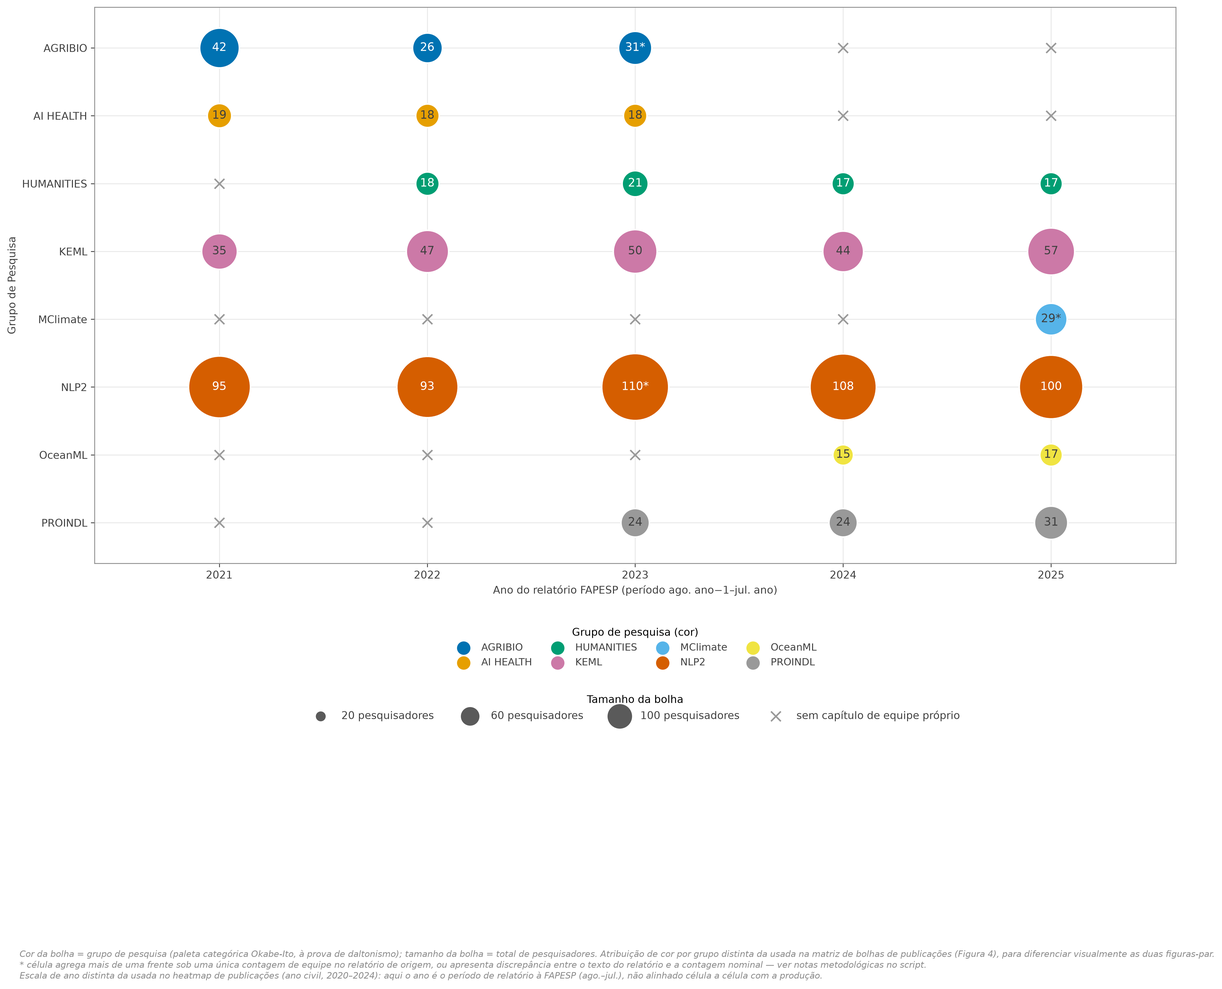
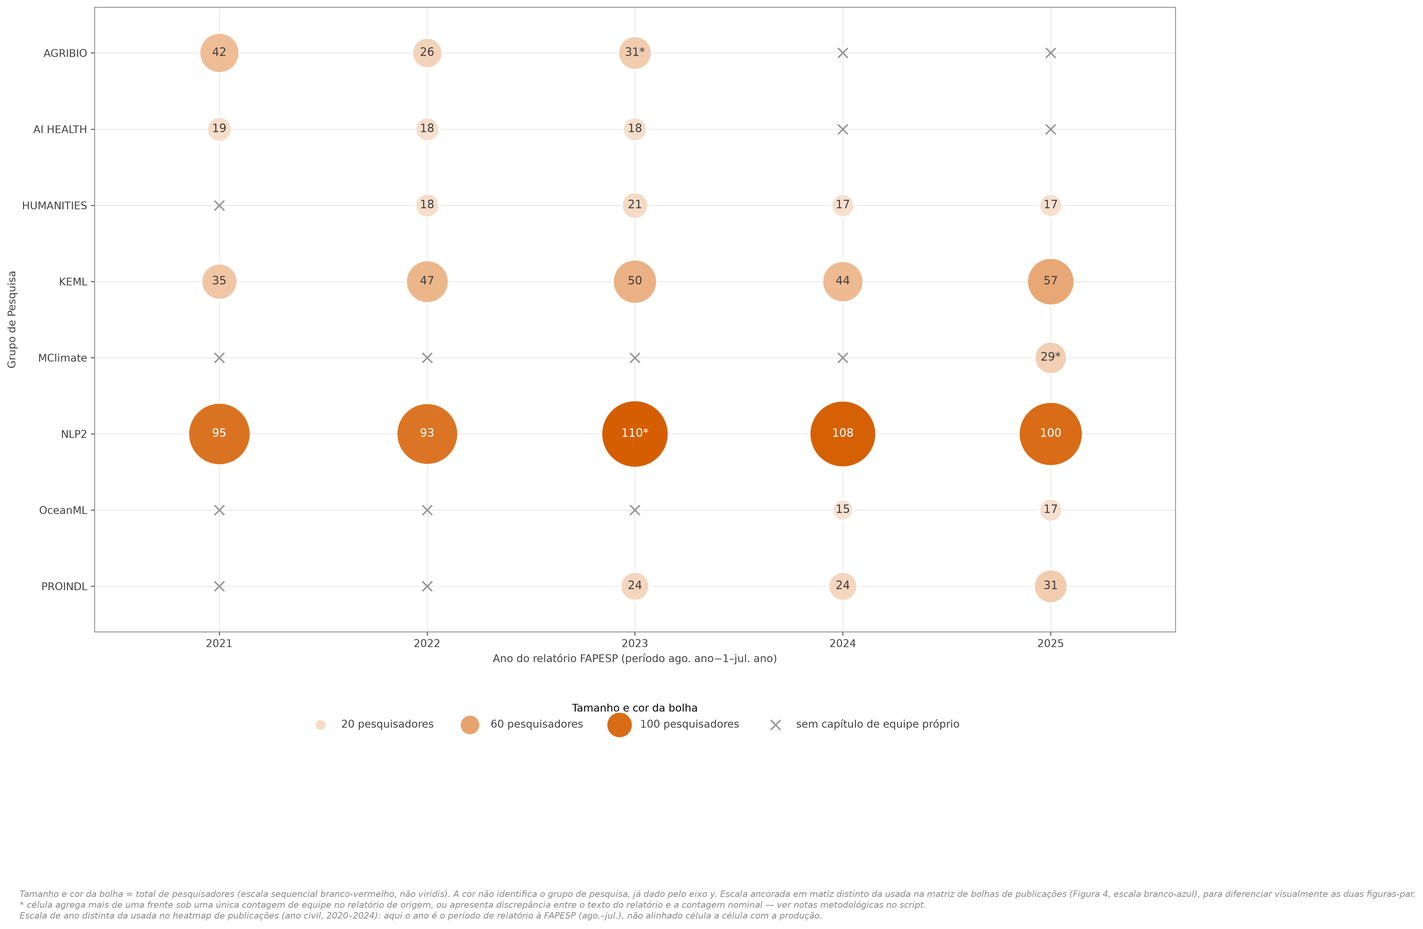
Volta a cor da bolha para escala sequencial por valor, não por grupo
A cor da bolha passa a representar magnitude (número de publicações /
total de pesquisadores) numa escala monocromática, e não mais a
identidade do grupo (que já está no eixo y). Cada figura usa uma escala
ancorada num matiz diferente do núcleo Okabe-Ito (azul para publicações,
vermelho para composição de equipe), para manter as duas matrizes
diferenciáveis sem recorrer a viridis.

As bolhas de referência da legenda de tamanho agora usam a cor exata da
escala no valor correspondente, em vez de cinza neutro. Um piso de
saturação (18%) evita que os valores mais baixos fiquem brancos e
desapareçam contra o fundo da figura.

diff --git a/equipe_composicao.py b/equipe_composicao.py
@@ -3,12 +3,15 @@
 equipe_composicao.py — Composição de equipe por grupo do C4AI (2021–2025)
 ==========================================================================
 Figura-par da matriz de bolhas de publicações (4_heatmap_grupo_ano_bolhas.png /
-bolhas_publicacoes.py): mesma grade grupo × ano, com o tamanho da bolha indicando
-o nº de pesquisadores declarado no relatório anual à FAPESP (em vez do nº de
-publicações). A cor da bolha é categórica por grupo (Okabe-Ito, ordem alfabética),
-deliberadamente diferente da atribuição usada na figura-par de publicações (ordem
-por produtividade), para que as duas matrizes de bolhas fiquem diferenciáveis
-entre si mesmo compartilhando a mesma paleta-mestra da tese.
+bolhas_publicacoes.py): mesma grade grupo × ano, com o tamanho E a cor da bolha
+indicando o nº de pesquisadores declarado no relatório anual à FAPESP (em vez do
+nº de publicações), numa escala sequencial monocromática (branco ao vermelho
+Okabe-Ito #D55E00), não viridis. A cor não identifica o grupo de pesquisa, esse
+já dado pelo eixo y; a escala está ancorada num matiz diferente do usado na
+figura-par de publicações (azul Okabe-Ito), para que as duas matrizes de bolhas
+fiquem diferenciáveis entre si mesmo compartilhando a mesma paleta-mestra da
+tese. O gráfico de streamgraph (Figura 13, alternativa aos mesmos dados) segue
+usando a paleta categórica Okabe-Ito por grupo, sem mudança.
 
 Fonte dos dados: seções "Human resources" (relatórios 2021–2022) e "Team"
 (relatórios 2023–2025) de cada capítulo dos relatórios científicos do C4AI à FAPESP,
@@ -35,7 +38,7 @@ from pathlib import Path
 import matplotlib.pyplot as plt
 import numpy as np
 import pandas as pd
-from matplotlib.colors import to_rgb
+from matplotlib.colors import LinearSegmentedColormap, to_rgb
 from scipy.interpolate import PchipInterpolator
 
 # ──────────────────────────────────────────────────────────────────────────────
@@ -114,18 +117,35 @@ CORES_OKABE_ITO = {
 # PLOT
 # ──────────────────────────────────────────────────────────────────────────────
 
-# ── Identidade visual da tese (estilo_rede.py: Okabe-Ito categórico, "bolinha"
-# com borda branca, DejaVu Sans, tinta cinza #404040 sem negrito, nota em
-# itálico #8a8a8a, sem título embutido na imagem — a legenda do LaTeX titula).
-# A cor da bolha codifica o grupo (CORES_OKABE_ITO acima), não mais uma escala
-# sequencial (viridis) redundante com o tamanho. ──────────────────────────────
+# ── Identidade visual da tese (estilo_rede.py: Okabe-Ito categórico p/ figuras
+# de rede/streamgraph, "bolinha" com borda branca, DejaVu Sans, tinta cinza
+# #404040 sem negrito, nota em itálico #8a8a8a, sem título embutido na imagem
+# — a legenda do LaTeX titula). Na matriz de bolhas (Figura 12), a cor segue
+# uma escala sequencial (branco-vermelho, ancorada no vermelho Okabe-Ito), não
+# mais categórica por grupo nem viridis. ──────────────────────────────────────
 
 COR_TEXTO = "#404040"
 COR_NOTA = "#8a8a8a"
 COR_AUSENTE = "#999999"  # cinza da paleta categórica Okabe-Ito (slot neutro)
-COR_LEGENDA_TAMANHO = "#5a5a5a"  # cinza neutro p/ legenda de tamanho (cor não é grupo aqui)
+
+# Escala sequencial monocromática (branco -> vermelho Okabe-Ito #D55E00), não
+# viridis. Ancorada em cor distinta da usada em bolhas_publicacoes.py (azul
+# Okabe-Ito), para diferenciar as duas matrizes de bolhas entre si.
+COR_ANCORA_EQUIPE = "#D55E00"
+CMAP_SEQUENCIAL_EQUIPE = LinearSegmentedColormap.from_list(
+    "vermelho_okabe_ito", ["#ffffff", COR_ANCORA_EQUIPE],
+)
 
 plt.rcParams["font.family"] = "DejaVu Sans"
+
+
+COR_FRAC_MIN = 0.18  # piso de saturação: evita bolhas quase brancas (invisíveis sobre o fundo)
+
+
+def cor_escala(frac: float, cmap) -> tuple:
+    """Mapeia frac (0-1) na escala, com piso de saturação para o valor mínimo
+    não desaparecer contra o fundo branco da figura."""
+    return cmap(COR_FRAC_MIN + (1 - COR_FRAC_MIN) * frac)
 
 
 def cor_texto_sobre(cor) -> str:
@@ -158,7 +178,6 @@ def plot_composicao_bolhas(totais: pd.DataFrame, outdir: Path):
     tamanho_min, tamanho_max = 400, 4200
 
     for i, grupo in enumerate(grupos):
-        cor = CORES_OKABE_ITO[grupo]
         for j, ano in enumerate(anos):
             total = totais.loc[grupo, ano]
 
@@ -171,6 +190,7 @@ def plot_composicao_bolhas(totais: pd.DataFrame, outdir: Path):
 
             frac = (total - vmin) / (vmax - vmin)
             tamanho = tamanho_min + frac * (tamanho_max - tamanho_min)
+            cor = cor_escala(frac, CMAP_SEQUENCIAL_EQUIPE)
 
             ax.scatter(
                 j, i, s=tamanho, color=cor, edgecolors="white", linewidths=1.5,
@@ -206,24 +226,11 @@ def plot_composicao_bolhas(totais: pd.DataFrame, outdir: Path):
     ax.grid(True, alpha=0.2, linewidth=0.8, color=COR_NOTA)
     ax.set_axisbelow(True)
 
-    # legenda de cor (uma bolha por grupo, na cor efetivamente usada na matriz)
-    handles_grupo = [
-        ax.scatter([], [], s=200, color=CORES_OKABE_ITO[g], edgecolors="white",
-                   linewidths=1.2, label=g)
-        for g in grupos
-    ]
-    legenda_grupo = ax.legend(
-        handles=handles_grupo, loc="upper center", bbox_to_anchor=(0.5, -0.10),
-        ncol=4, frameon=False, fontsize=9.5, labelcolor=COR_TEXTO,
-        columnspacing=1.6, handletextpad=0.8, title="Grupo de pesquisa (cor)",
-        title_fontsize=10,
-    )
-    ax.add_artist(legenda_grupo)
-
-    # legenda de tamanho (3 pontos de referência, cor neutra: aqui a cor já
-    # foi usada para o grupo acima — a legenda de tamanho trata só da escala).
-    # Escala reduzida (não literalmente igual à do gráfico) só para caber sem
-    # sobrepor o texto — a proporção relativa entre os três pontos é preservada.
+    # legenda de tamanho e cor combinadas (cada bolha de referência usa a cor
+    # que a escala sequencial atribui ao próprio valor, e não uma cor neutra).
+    # Escala de tamanho reduzida (não literalmente igual à do gráfico) só para
+    # caber sem sobrepor o texto — a proporção relativa entre os pontos é
+    # preservada; a cor de cada ponto é a exata da escala, sem redução.
     legenda_tamanho_min, legenda_tamanho_max = 90, 700
     handles_tamanho = []
     for valor_ref in (20, 60, 100):
@@ -231,7 +238,7 @@ def plot_composicao_bolhas(totais: pd.DataFrame, outdir: Path):
         frac = min(max(frac, 0), 1)
         tamanho = legenda_tamanho_min + frac * (legenda_tamanho_max - legenda_tamanho_min)
         handles_tamanho.append(ax.scatter(
-            [], [], s=tamanho, color=COR_LEGENDA_TAMANHO, edgecolors="white",
+            [], [], s=tamanho, color=cor_escala(frac, CMAP_SEQUENCIAL_EQUIPE), edgecolors="white",
             linewidths=1.5, label=f"{valor_ref} pesquisadores",
         ))
     handles_tamanho.append(ax.scatter(
@@ -239,22 +246,23 @@ def plot_composicao_bolhas(totais: pd.DataFrame, outdir: Path):
         label="sem capítulo de equipe próprio",
     ))
     legenda_tamanho = ax.legend(
-        handles=handles_tamanho, loc="upper center", bbox_to_anchor=(0.5, -0.22),
+        handles=handles_tamanho, loc="upper center", bbox_to_anchor=(0.5, -0.10),
         ncol=4, frameon=False, fontsize=10, labelcolor=COR_TEXTO,
-        columnspacing=2.5, handletextpad=1.0, title="Tamanho da bolha",
+        columnspacing=2.5, handletextpad=1.0, title="Tamanho e cor da bolha",
         title_fontsize=10,
     )
 
     nota_rodape = (
-        "Cor da bolha = grupo de pesquisa (paleta categórica Okabe-Ito, à prova de daltonismo); "
-        "tamanho da bolha = total de pesquisadores. Atribuição de cor por grupo distinta da usada na "
-        "matriz de bolhas de publicações (Figura 4), para diferenciar visualmente as duas figuras-par.\n"
+        "Tamanho e cor da bolha = total de pesquisadores (escala sequencial branco-vermelho, "
+        "não viridis). A cor não identifica o grupo de pesquisa, já dado pelo eixo y. Escala "
+        "ancorada em matiz distinto da usada na matriz de bolhas de publicações (Figura 4, "
+        "escala branco-azul), para diferenciar visualmente as duas figuras-par.\n"
         "* célula agrega mais de uma frente sob uma única contagem de equipe no relatório de origem, "
         "ou apresenta discrepância entre o texto do relatório e a contagem nominal — ver notas metodológicas no script.\n"
         "Escala de ano distinta da usada no heatmap de publicações (ano civil, 2020–2024): "
         "aqui o ano é o período de relatório à FAPESP (ago.–jul.), não alinhado célula a célula com a produção."
     )
-    fig.text(0.02, -0.28, nota_rodape, fontsize=8.5, color=COR_NOTA, style="italic", ha="left", va="top")
+    fig.text(0.02, -0.20, nota_rodape, fontsize=8.5, color=COR_NOTA, style="italic", ha="left", va="top")
 
     plt.tight_layout()
     save(fig, outdir, "12_composicao_equipe_bolhas.png")

diff --git a/bolhas_publicacoes.py b/bolhas_publicacoes.py
@@ -4,17 +4,17 @@ bolhas_publicacoes.py — Matriz de bolhas de publicações por grupo × ano (C4
 ===============================================================================
 Variante em bolhas da Figura 4 (4_heatmap_grupo_ano.png, mapa de calor), usada
 especificamente na versão do capítulo 3 da tese: mesma grade grupo × ano, com
-o tamanho da bolha indicando o número de publicações e a cor identificando
-categoricamente o grupo de pesquisa (paleta Okabe-Ito, à prova de daltonismo),
-em vez de uma escala de cor sequencial (viridis) redundante com o tamanho.
+o tamanho E a cor da bolha indicando o número de publicações no ano (escala
+sequencial monocromática, do claro ao escuro), em vez da escala viridis, que
+foge da identidade visual da tese.
 
-A ordem dos grupos (eixo y) segue o ranking de produtividade (decrescente),
-igual à Figura 1/Tabela 2 do relatório. A atribuição de cor por grupo nessa
-ordem é deliberadamente diferente da atribuição usada em
-equipe_composicao.py (ordem alfabética) — assim, o mesmo grupo aparece em
-cores diferentes nas duas figuras-par (publicações × equipe), e as duas
-figuras ficam visualmente diferenciáveis entre si, sem recorrer a paletas
-fora da identidade da tese (ver notas de estilo em equipe_composicao.py,
+A escala sequencial é construída sobre o azul do núcleo categórico Okabe-Ito
+(#0072B2), do branco ao azul saturado, e não sobre um grupo específico — a cor
+aqui não identifica o grupo de pesquisa (esse já está no eixo y), só o valor da
+célula. A figura-par de composição de equipe (equipe_composicao.py) usa uma
+escala análoga, mas ancorada num matiz diferente (vermelho Okabe-Ito), para que
+as duas matrizes de bolhas fiquem diferenciáveis entre si mesmo compartilhando
+a mesma paleta-mestra da tese (ver notas de estilo em equipe_composicao.py,
 espelhando infranodus/estilo_rede.py).
 
 Fonte dos dados: output/c4ai_matriz_grupo_ano.xlsx (crosstab gerado por
@@ -28,6 +28,7 @@ from pathlib import Path
 
 import matplotlib.pyplot as plt
 import pandas as pd
+from matplotlib.colors import LinearSegmentedColormap, to_rgb
 
 # ──────────────────────────────────────────────────────────────────────────────
 # DADOS
@@ -41,35 +42,36 @@ GRUPOS_ORDEM = [
     "PROINDL", "MClimate", "OceanML",
 ]
 
-# Paleta categórica Okabe-Ito (colorblind-safe), na ordem de produtividade —
-# deliberadamente distinta da ordem alfabética usada em equipe_composicao.py,
-# para que cada grupo tenha cor diferente nas duas figuras-par.
-CORES_POR_GRUPO = {
-    "NLP2":       "#0072B2",  # azul
-    "KEML":       "#E69F00",  # laranja
-    "AGRIBIO":    "#009E73",  # verde
-    "AI HEALTH":  "#CC79A7",  # magenta
-    "HUMANITIES": "#56B4E9",  # azul claro
-    "PROINDL":    "#D55E00",  # vermelho
-    "MClimate":   "#F0E442",  # amarelo
-    "OceanML":    "#999999",  # cinza
-}
-
 # ──────────────────────────────────────────────────────────────────────────────
 # ESTILO (mesma identidade visual de equipe_composicao.py / estilo_rede.py)
 # ──────────────────────────────────────────────────────────────────────────────
 
 COR_TEXTO = "#404040"
 COR_NOTA = "#8a8a8a"
-COR_LEGENDA_TAMANHO = "#5a5a5a"  # cinza neutro: legenda de tamanho não usa cor de grupo
+
+# Escala sequencial monocromática (branco -> azul Okabe-Ito #0072B2), não
+# viridis. Ancorada em cor distinta da usada em equipe_composicao.py (vermelho
+# Okabe-Ito), para diferenciar as duas matrizes de bolhas entre si.
+COR_ANCORA = "#0072B2"
+CMAP_SEQUENCIAL = LinearSegmentedColormap.from_list(
+    "azul_okabe_ito", ["#ffffff", COR_ANCORA],
+)
 
 plt.rcParams["font.family"] = "DejaVu Sans"
+
+
+COR_FRAC_MIN = 0.18  # piso de saturação: evita bolhas quase brancas (invisíveis sobre o fundo)
+
+
+def cor_escala(frac: float, cmap) -> tuple:
+    """Mapeia frac (0-1) na escala, com piso de saturação para o valor mínimo
+    não desaparecer contra o fundo branco da figura."""
+    return cmap(COR_FRAC_MIN + (1 - COR_FRAC_MIN) * frac)
 
 
 def cor_texto_sobre(hex_cor: str) -> str:
     """Réplica da regra de contraste usada nas demais figuras da tese:
     branco se luminância < 0,55, cinza escuro caso contrário."""
-    from matplotlib.colors import to_rgb
     r, g, b = to_rgb(hex_cor)
     luminancia = 0.2126 * r + 0.7152 * g + 0.0722 * b
     return "white" if luminancia < 0.55 else COR_TEXTO
@@ -101,11 +103,11 @@ def plot_bolhas_publicacoes(matriz: pd.DataFrame, outdir: Path):
     tamanho_min, tamanho_max = 300, 3800
 
     for i, grupo in enumerate(grupos):
-        cor = CORES_POR_GRUPO[grupo]
         for j, ano in enumerate(anos):
             total = matriz.loc[grupo, ano]
             frac = (total - vmin) / (vmax - vmin)
             tamanho = tamanho_min + frac * (tamanho_max - tamanho_min)
+            cor = cor_escala(frac, CMAP_SEQUENCIAL)
 
             ax.scatter(
                 j, i, s=tamanho, color=cor, edgecolors="white", linewidths=1.5,
@@ -134,24 +136,12 @@ def plot_bolhas_publicacoes(matriz: pd.DataFrame, outdir: Path):
     ax.grid(True, alpha=0.2, linewidth=0.8, color=COR_NOTA)
     ax.set_axisbelow(True)
 
-    # legenda de cor (uma bolha por grupo, na cor efetivamente usada na matriz)
-    handles_grupo = [
-        ax.scatter([], [], s=180, color=CORES_POR_GRUPO[g], edgecolors="white",
-                   linewidths=1.2, label=g)
-        for g in grupos
-    ]
-    legenda_grupo = ax.legend(
-        handles=handles_grupo, loc="upper center", bbox_to_anchor=(0.5, -0.10),
-        ncol=4, frameon=False, fontsize=9.5, labelcolor=COR_TEXTO,
-        columnspacing=1.6, handletextpad=0.8, title="Grupo de pesquisa (cor)",
-        title_fontsize=10,
-    )
-    ax.add_artist(legenda_grupo)
-
-    # legenda de tamanho (cor neutra: aqui a cor já foi usada para o grupo
-    # acima — a legenda de tamanho trata só da escala). Escala reduzida (não
-    # literalmente igual à do gráfico) só para caber sem sobrepor o texto —
-    # a proporção relativa entre os três pontos é preservada.
+    # legenda de tamanho e cor combinadas (cada bolha de referência usa a cor
+    # que a escala sequencial atribui ao próprio valor, e não uma cor neutra:
+    # tamanho e cor da legenda seguem juntos a mesma escala do gráfico).
+    # Escala de tamanho reduzida (não literalmente igual à do gráfico) só para
+    # caber sem sobrepor o texto — a proporção relativa entre os pontos é
+    # preservada; a cor de cada ponto é a exata da escala, sem redução.
     legenda_tamanho_min, legenda_tamanho_max = 90, 700
     handles_tamanho = []
     for valor_ref in (10, 30, 60):
@@ -159,23 +149,23 @@ def plot_bolhas_publicacoes(matriz: pd.DataFrame, outdir: Path):
         frac = min(max(frac, 0), 1)
         tamanho = legenda_tamanho_min + frac * (legenda_tamanho_max - legenda_tamanho_min)
         handles_tamanho.append(ax.scatter(
-            [], [], s=tamanho, color=COR_LEGENDA_TAMANHO, edgecolors="white",
+            [], [], s=tamanho, color=cor_escala(frac, CMAP_SEQUENCIAL), edgecolors="white",
             linewidths=1.5, label=f"{valor_ref} publicações",
         ))
     legenda_tamanho = ax.legend(
-        handles=handles_tamanho, loc="upper center", bbox_to_anchor=(0.5, -0.24),
+        handles=handles_tamanho, loc="upper center", bbox_to_anchor=(0.5, -0.12),
         ncol=3, frameon=False, fontsize=10, labelcolor=COR_TEXTO,
         columnspacing=3.0, handletextpad=1.0,
-        title="Tamanho da bolha", title_fontsize=10,
+        title="Tamanho e cor da bolha", title_fontsize=10,
     )
 
     nota_rodape = (
-        "Cor da bolha = grupo de pesquisa (paleta categórica Okabe-Ito, à prova de daltonismo); "
-        "tamanho da bolha = número de publicações no ano. "
-        "Atribuição de cor por grupo distinta da usada na Figura 12 (composição de equipe), "
-        "para diferenciar visualmente as duas matrizes de bolhas."
+        "Tamanho e cor da bolha = número de publicações no ano (escala sequencial branco-azul, "
+        "não viridis). A cor não identifica o grupo de pesquisa, já dado pelo eixo y. "
+        "Escala ancorada em matiz distinto da usada na Figura 12 (composição de equipe, "
+        "escala branco-vermelho), para diferenciar visualmente as duas matrizes de bolhas."
     )
-    fig.text(0.02, -0.30, nota_rodape, fontsize=8.5, color=COR_NOTA, style="italic", ha="left", va="top")
+    fig.text(0.02, -0.18, nota_rodape, fontsize=8.5, color=COR_NOTA, style="italic", ha="left", va="top")
 
     plt.tight_layout()
     save(fig, outdir, "4_heatmap_grupo_ano_bolhas.png")

diff --git a/documento_analise.tex b/documento_analise.tex
@@ -222,9 +222,11 @@ concentra sua produção em 2023 (\num{37} publicações), sem registros em 2024
 \caption[Composição de equipe por grupo (2021--2025)]{%
 \textbf{Composição de equipe por grupo do C4AI, 2021--2025.}
 Figura-par da Figura~\ref{fig:heatmap}: mesma grade grupo \texttimes{} ano, com o
-tamanho da bolha indicando o total de pesquisadores declarado no relatório anual
-à FAPESP (em vez do número de publicações) e a cor identificando categoricamente
-o grupo de pesquisa (paleta Okabe-Ito, à prova de daltonismo).
+tamanho e a cor da bolha indicando o total de pesquisadores declarado no relatório
+anual à FAPESP (em vez do número de publicações), numa escala sequencial
+branco-vermelho ancorada no vermelho Okabe-Ito (não viridis), em matiz distinto
+do usado na variante em bolhas da Figura~\ref{fig:heatmap} (escala branco-azul).
+A cor não identifica o grupo de pesquisa, já dado pelo eixo y.
 Marcadores em \texttimes{} cinza indicam grupos sem capítulo de equipe próprio
 naquele relatório --- dado ausente, não equipe de tamanho zero. \textbf{NLP2}
 lidera com folga em todos os anos (entre \num{93} e \num{110} pesquisadores),

diff --git a/RELATORIO.md b/RELATORIO.md
@@ -108,7 +108,7 @@ As figuras a seguir foram geradas automaticamente e estão disponíveis em alta 
 
 ![Composição de equipe por grupo do C4AI, 2021–2025 — bolha grupo × ano, tamanho e cor por total de pesquisadores](figuras/12_composicao_equipe_bolhas.png)
 
-**Composição de equipe por grupo do C4AI, 2021–2025.** Figura-par da Figura 4: mesma grade grupo × ano, com o tamanho da bolha indicando o total de pesquisadores declarado no relatório anual à FAPESP (em vez do número de publicações) e a cor identificando categoricamente o grupo de pesquisa (paleta Okabe-Ito, à prova de daltonismo, em ordem alfabética — deliberadamente distinta da ordem por produtividade usada na variante em bolhas da Figura 4, [`bolhas_publicacoes.py`](bolhas_publicacoes.py), para que as duas matrizes fiquem diferenciáveis entre si). Marcadores em × cinza indicam grupos sem capítulo de equipe próprio naquele relatório — dado ausente, não equipe de tamanho zero. NLP2 lidera com folga em todos os anos (entre 93 e 110 pesquisadores), acompanhando sua liderança em produção observada na Figura 4; AI HEALTH deixa de ter capítulo próprio a partir de 2024, coincidindo com a queda de suas publicações a zero no mesmo ano. O eixo do ano segue o período do relatório à FAPESP (ago. ano−1–jul. ano), escala distinta do ano civil de publicação usado na Figura 4; as duas não foram alinhadas célula a célula e permanecem como leituras complementares, não sobrepostas. Células marcadas com "*" agregam mais de uma frente de pesquisa sob uma única contagem de equipe no relatório de origem, ou registram divergência entre o texto do relatório e a contagem nominal (ver nota metodológica na própria figura).
+**Composição de equipe por grupo do C4AI, 2021–2025.** Figura-par da Figura 4: mesma grade grupo × ano, com o tamanho e a cor da bolha indicando o total de pesquisadores declarado no relatório anual à FAPESP (em vez do número de publicações), numa escala sequencial branco-vermelho ancorada no vermelho Okabe-Ito (não viridis) — deliberadamente ancorada em matiz distinto do usado na variante em bolhas da Figura 4 (escala branco-azul, [`bolhas_publicacoes.py`](bolhas_publicacoes.py)), para que as duas matrizes fiquem diferenciáveis entre si. A cor não identifica o grupo de pesquisa, já dado pelo eixo y. Marcadores em × cinza indicam grupos sem capítulo de equipe próprio naquele relatório — dado ausente, não equipe de tamanho zero. NLP2 lidera com folga em todos os anos (entre 93 e 110 pesquisadores), acompanhando sua liderança em produção observada na Figura 4; AI HEALTH deixa de ter capítulo próprio a partir de 2024, coincidindo com a queda de suas publicações a zero no mesmo ano. O eixo do ano segue o período do relatório à FAPESP (ago. ano−1–jul. ano), escala distinta do ano civil de publicação usado na Figura 4; as duas não foram alinhadas célula a célula e permanecem como leituras complementares, não sobrepostas. Células marcadas com "*" agregam mais de uma frente de pesquisa sob uma única contagem de equipe no relatório de origem, ou registram divergência entre o texto do relatório e a contagem nominal (ver nota metodológica na própria figura).
 
 *Fonte dos dados de equipe: seções "Human resources" (relatórios 2021–2022) e "Team" (relatórios 2023–2025) dos relatórios científicos do C4AI à FAPESP, curadoria manual tabulada e gerada por [`equipe_composicao.py`](equipe_composicao.py).*
 

diff --git a/README.md b/README.md
@@ -83,7 +83,7 @@ python coword_analysis.py --no-html               # só PNG
 
 ### 4. Composição de equipe (bolha grupo × ano)
 
-Figura-par do heatmap de publicações (Figura 4): mesma grade grupo × ano, com o tamanho da bolha indicando o total de pesquisadores por grupo e a cor identificando categoricamente o grupo (paleta Okabe-Ito, ordem alfabética), a partir da curadoria manual dos relatórios anuais do C4AI à FAPESP (2021–2025):
+Figura-par do heatmap de publicações (Figura 4): mesma grade grupo × ano, com o tamanho e a cor da bolha indicando o total de pesquisadores por grupo (escala sequencial branco-vermelho, ancorada no vermelho Okabe-Ito, não viridis), a partir da curadoria manual dos relatórios anuais do C4AI à FAPESP (2021–2025):
 
 ```bash
 python equipe_composicao.py
@@ -93,7 +93,7 @@ python equipe_composicao.py
 
 ### 5. Matriz de bolhas de publicações (variante da Figura 4)
 
-Variante em bolhas do heatmap de publicações, usada no capítulo da tese: mesma grade grupo × ano, com o tamanho da bolha indicando o número de publicações e a cor identificando categoricamente o grupo (paleta Okabe-Ito, ordem por produtividade — distinta da ordem usada na Figura 12, para diferenciar as duas matrizes):
+Variante em bolhas do heatmap de publicações, usada no capítulo da tese: mesma grade grupo × ano, com o tamanho e a cor da bolha indicando o número de publicações (escala sequencial branco-azul, ancorada no azul Okabe-Ito, não viridis — matiz distinto do usado na Figura 12, para diferenciar as duas matrizes):
 
 ```bash
 python bolhas_publicacoes.py
